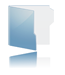
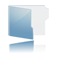
Changed graphics

diff --git a/public/stylesheets/application.css b/public/stylesheets/application.css
@@ -106,13 +106,14 @@ div.signin {
 
 div.header {
 	margin-top: 0;
-	height: 75px;
+	height: 85px;
 	background-image: url('header_background.png');
 	background-repeat: repeat-x;
 }
 
 div.header img {
 	float: left;
+	padding-top: 2px;
 }
 
 div.search {
